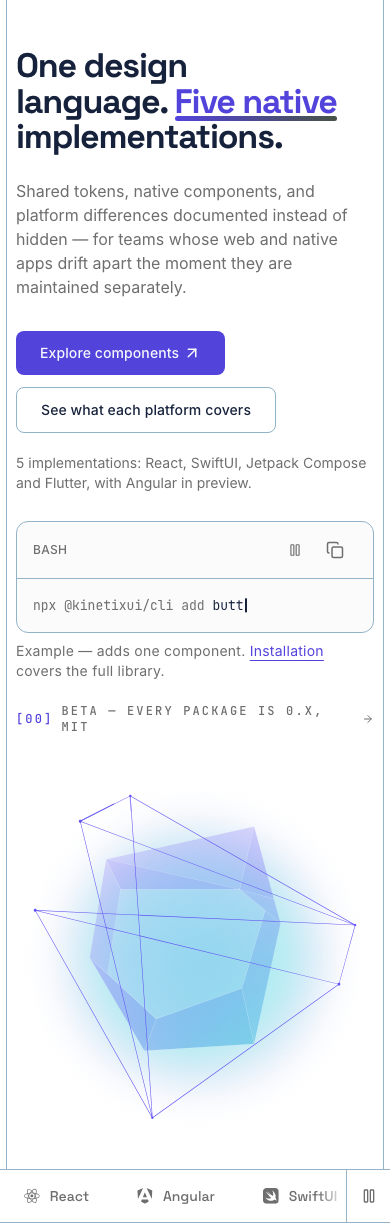
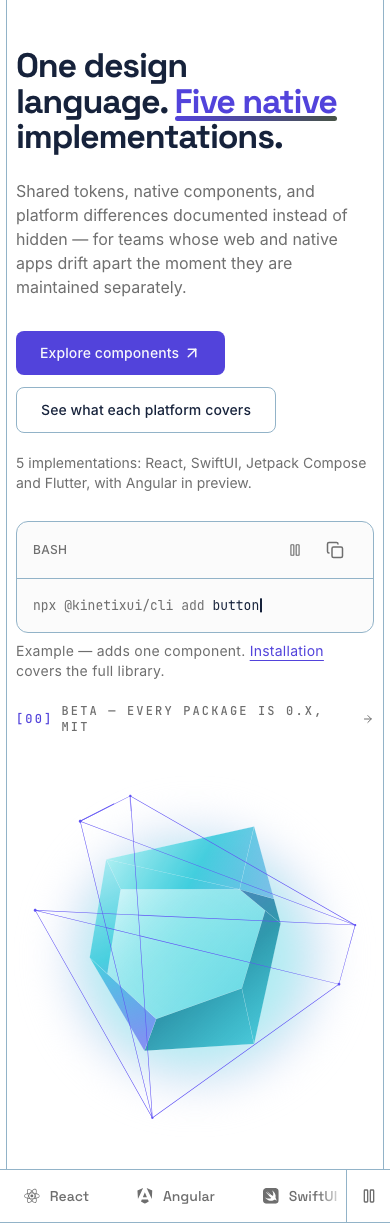
docs(web): refresh enhanced polygon color previews

Changed region(s): [[0.2154, 0.6525, 0.7385, 0.87], [0.6462, 0.4661, 0.6769, 0.4971]]

diff --git a/design-assets/identity/v1/verification/VERIFICATION.md b/design-assets/identity/v1/verification/VERIFICATION.md
@@ -1,6 +1,6 @@
 # Kinetic Weave verification — 2 November 2026
 
-Implementation revision: `157717b48794a44fd46aae12c0f7040300aefe27`.
+Implementation revision: `7fba3a8af4560b30364efad942cdd8f1f46952ef`.
 Screenshots and browser results below are from its **actual production Next.js
 render**, not mockups. The later evidence commit changes only this directory.
 No merge, production promotion or package release was performed.
@@ -31,6 +31,17 @@ The circle stays confined to the artwork. The pixel comparison now also rejects
 a spot that is too faint: a 55–110 channel-difference budget replaces the former
 wash-only ceiling. Copy-overlap checks and the 4.5:1 rendered lede contrast floor
 are unchanged. Production desktop/mobile/dark captures below are refreshed.
+
+## Polygon face-color enhancement
+
+The reference's cyan/teal depth is applied to the polygon itself. Four coordinated
+materials replace the uniformly pale gradient: luminous cyan upper planes,
+translucent glass at the center, deeper teal shadow planes and indigo-tinted
+return edges. All nine original facets and the main-brand wireframe retain their
+coordinates. The visible background circle, autoplay, drag rotation and reduced-
+motion behavior stay intact. Production desktop/mobile/dark screenshots below
+are refreshed; the production build, changed-component lint and seven browser
+cases pass. The existing homepage guards cover copy contrast and circle visibility.
 
 ## Hero evidence
 
